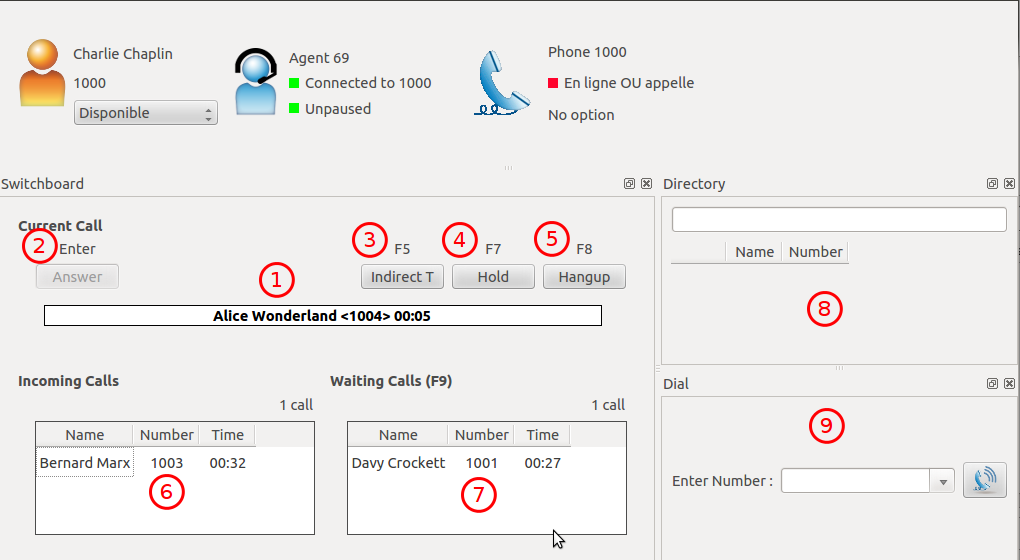
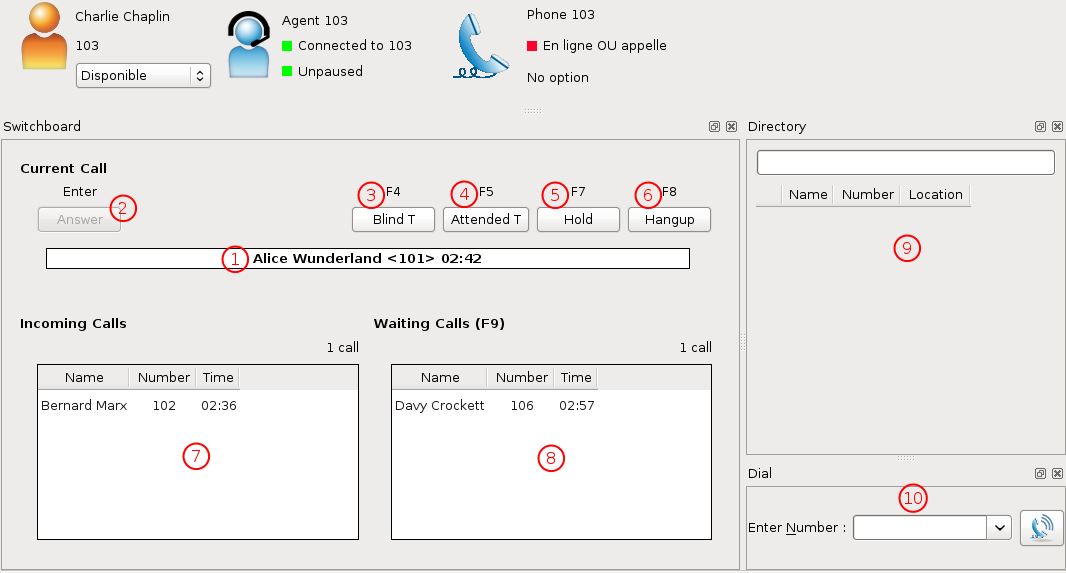
add blind transfer for switchboard

diff --git a/source/administration/switchboard/switchboard.rst b/source/administration/switchboard/switchboard.rst
@@ -232,13 +232,14 @@ When the user connects with his XiVO Client, he gets the Switchboard profile.
 
 1. *Current Call* frame
 2. *Answer* button
-3. *Attended transfer* button
-4. *Hold* button
-5. *Hangup* button
-6. *Incoming Calls* list
-7. *Waiting Calls* list
-8. *Directory* Xlet
-9. *Dial* Xlet
+3. *Blind transfer* button
+4. *Attended transfer* button
+5. *Hold* button
+6. *Hangup* button
+7. *Incoming Calls* list
+8. *Waiting Calls* list
+9. *Directory* Xlet
+10. *Dial* Xlet
 
 .. note:: If you don't see the Switchboard Xlet, right-click on the grey
           bar at the right of the *Help* menu and check *Switchboard*:
@@ -273,9 +274,13 @@ Distributing a call
 
 Once the call has been answered and placed in the current call frame, the operator has 3 choices:
 
-* **transfer the call** to another user using the *Attended transfer* button or the *F5* key
-* put the call **on hold** using the *Hold* button or the *F7* key
-* **end the call** using the *Hangup* button or the *F8* key.
+* transfer the call to another user
+
+  * using the *Blind transfer* button or the *F4* key.
+  * using the *Attended transfer* button or the *F5* key
+
+* put the call on hold using the *Hold* button or the *F7* key
+* end the call using the *Hangup* button or the *F8* key.
 
 
 Transferring a call
@@ -291,7 +296,9 @@ Once the destination name has been entered, press *Enter*. If multiple destinati
   * pressing *Enter*
   * pressing the transfer button again
 
-For attended transfers, the operator needs to wait for the transfer destination to answer before completing the transfer.
+Blind transfers are straightforward: once the call is transferred, the operator is free to manage other calls.
+
+Attended transfers are a bit more complicated: the operator needs to wait for the transfer destination to answer before completing the transfer.
 
 In this example, the operator is currently asking *Bernard Marx* if he can transfer *Alice Wonderland* to him.
 
@@ -307,7 +314,7 @@ Once the destination has answered, you can:
 * cancel the transfer with *F8* key
 * complete the transfer with *F5* key
 
-.. warning:: Blind transfer is not supported. If the operator completes the transfer before the callee answers the call, the operator's phone will not be available until the callee answers.
+.. note:: The operator can not complete an attended transfer while the transfer destination is ringing. In this case, the operator must cancel the attended transfer and use the *Blind transfer* action.
 
 
 Putting a call on hold
